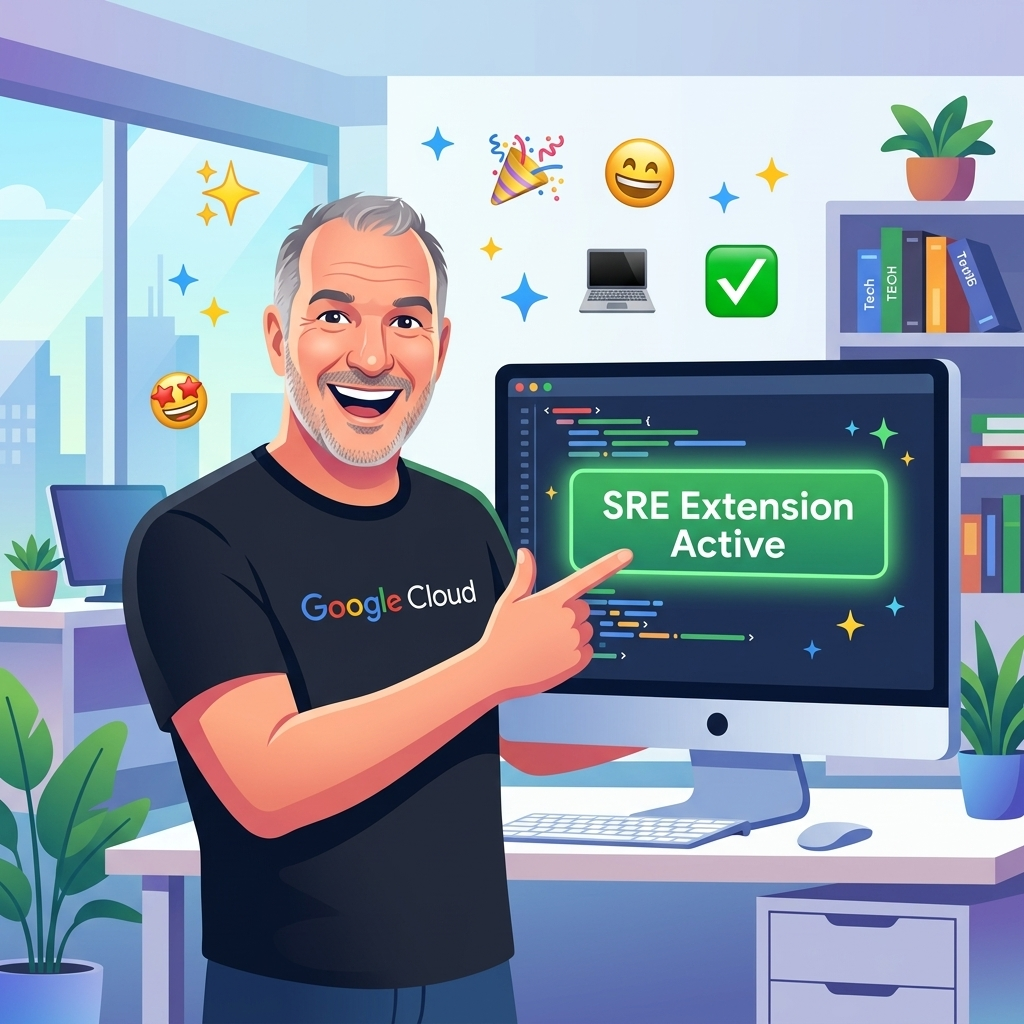
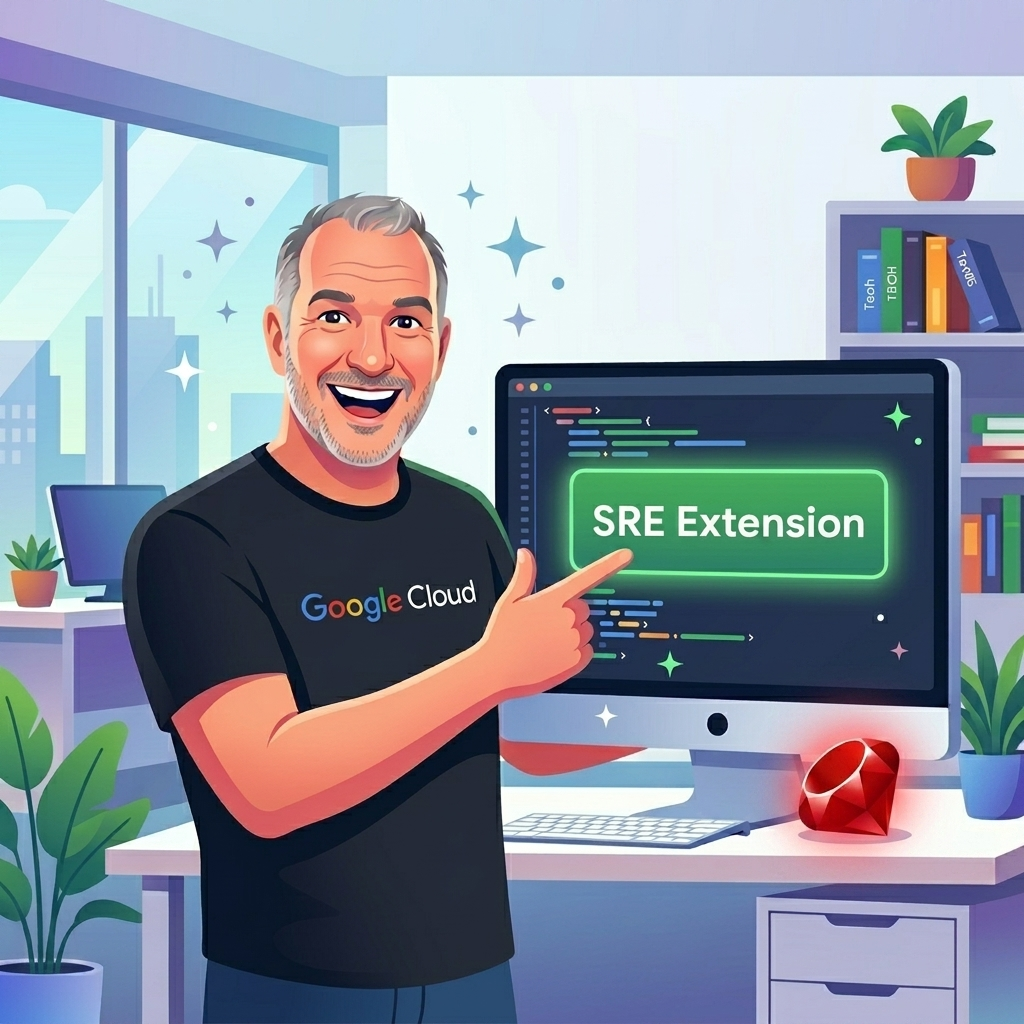
feat(posts): publish SRE Extension article

diff --git a/zzo.ricc.rocks/content/en/posts/technology/2026-06-05-ops-i-did-it-again-the-sre-extension-is-out/index.md b/zzo.ricc.rocks/content/en/posts/technology/2026-06-05-ops-i-did-it-again-the-sre-extension-is-out/index.md
@@ -10,7 +10,7 @@ image: /en/posts/technology/2026-06-05-ops-i-did-it-again-the-sre-extension-is-o
 Harness: antigravity-cli
 Model: Gemini 3.5 Flash (Medium)
 User: ricc
-Host: derek.zrh.corp.google.com
+Host: derek
 Bug: b/520314033
 UTM_ADDON: "?utm_campaign=CDR_0x89ad3e41_awareness_b520314033&utm_medium=external&utm_source=blog"
 CTA: "https://github.com/gemini-cli-extensions/sre"
@@ -35,7 +35,7 @@ When we talk about SRE (Site Reliability Engineering), we are talking about keep
 ## What on Earth is the SRE Extension?
 
 
-That is why we created the **SRE Extension** for the [Gemini CLI](https://github.com/google-gemini/gemini-cli?utm_campaign=CDR_0x89ad3e41_awareness_b520314033&utm_medium=external&utm_source=blog) and the [Antigravity CLI](https://antigravity.google/?utm_campaign=CDR_0x89ad3e41_awareness_b520314033&utm_medium=external&utm_source=blog) (`gemini` and `agy`).
+That is why we created the **SRE Extension** for the [Gemini CLI](https://github.com/google-gemini/gemini-cli) and the [Antigravity CLI](https://antigravity.google/?utm_campaign=CDR_0x89ad3e41_awareness_b520314033&utm_medium=external&utm_source=blog) (`gemini` and `agy`).
 
 It is a bundle of specialized, agentic skills that allow AI assistants to perform operations tasks safely.
 
@@ -43,30 +43,30 @@ And now, we have expanded this support so it works perfectly and seamlessly with
 
 The SRE Extension exposes a suite of specialized skills; let's examine them in a typical chronological order:
 
-- **GCP Setup**. [gcp-setup](https://github.com/gemini-cli-extensions/sre/blob/main/skills/gcp-setup/SKILL.md?utm_campaign=CDR_0x89ad3e41_awareness_b520314033&utm_medium=external&utm_source=blog) and [gcp-mcp-setup](https://github.com/gemini-cli-extensions/sre/blob/main/skills/gcp-mcp-setup/SKILL.md?utm_campaign=CDR_0x89ad3e41_awareness_b520314033&utm_medium=external&utm_source=blog) for secure GCP setup; it also sets up your CLI environment with a bunch of Google MCPs (see the [supported products list](https://docs.cloud.google.com/mcp/supported-products)).
-  - Kudos to my buddy [Romin Irani](https://rominirani.medium.com) for his pioneering work on [Google Managed MCP Servers](https://rominirani.medium.com/getting-started-with-google-mcp-services-a31dfb1b87a8) (check out his [google-mcp-servers repository](https://github.com/rominirani/google-mcp-servers) too!).
-  - We're also currently working on a nice [GCP Discovery](https://github.com/gemini-cli-extensions/sre/blob/main/skills/gcp-architecture-discovery/SKILL.md?utm_campaign=CDR_0x89ad3e41_awareness_b520314033&utm_medium=external&utm_source=blog) skill.
+- **GCP Setup**. [gcp-setup](https://github.com/gemini-cli-extensions/sre/blob/main/skills/gcp-setup/SKILL.md) and [gcp-mcp-setup](https://github.com/gemini-cli-extensions/sre/blob/main/skills/gcp-mcp-setup/SKILL.md) for secure GCP setup; it also sets up your CLI environment with a bunch of Google MCPs (see the [supported products list](https://docs.cloud.google.com/mcp/supported-products?utm_campaign=CDR_0x89ad3e41_awareness_b520314033&utm_medium=external&utm_source=blog)).
+  - Kudos to my buddy [Romin Irani](https://rominirani.medium.com) ([LinkedIn](https://www.linkedin.com/in/rominirani)) for his pioneering work on [Google Managed MCP Servers](https://rominirani.medium.com/getting-started-with-google-mcp-services-a31dfb1b87a8) (check out his [google-mcp-servers repository](https://github.com/rominirani/google-mcp-servers) too!).
+  - We're also currently working on a nice [GCP Discovery](https://github.com/gemini-cli-extensions/sre/blob/main/skills/gcp-architecture-discovery/SKILL.md) skill.
   - If you don't have GCP, no worries, the other skills will be independent! We also accept contributions for other Clouds!
 
 ![Dozens of supported products](image.png)
 
-- **Investigation**. [investigation-entrypoint](https://github.com/gemini-cli-extensions/sre/blob/main/skills/investigation-entrypoint/SKILL.md?utm_campaign=CDR_0x89ad3e41_awareness_b520314033&utm_medium=external&utm_source=blog). This is where your SRE CLI journey starts, in a safe way. This skill is aware of the others and knows what to call:
-  - [cloud-logging](https://github.com/gemini-cli-extensions/sre/blob/main/skills/cloud-logging/SKILL.md?utm_campaign=CDR_0x89ad3e41_awareness_b520314033&utm_medium=external&utm_source=blog), [cloud-monitoring](https://github.com/gemini-cli-extensions/sre/blob/main/skills/cloud-monitoring/SKILL.md?utm_campaign=CDR_0x89ad3e41_awareness_b520314033&utm_medium=external&utm_source=blog), and [gcp-slo-management](https://github.com/gemini-cli-extensions/sre/blob/main/skills/gcp-slo-management/SKILL.md?utm_campaign=CDR_0x89ad3e41_awareness_b520314033&utm_medium=external&utm_source=blog) for getting all those nice *o11y* signals you care about, including Service Level Objectives.
-  - [GCP Playbooks](https://github.com/gemini-cli-extensions/sre/blob/main/skills/gcp-playbooks/SKILL.md?utm_campaign=CDR_0x89ad3e41_awareness_b520314033&utm_medium=external&utm_source=blog) tries to be the place to record our (and your) playbooks. Currently supports Cloud Build, resource manager, GKE and Cloud Run.
-  - [monitoring-graphs](https://github.com/gemini-cli-extensions/sre/blob/main/skills/monitoring-graphs/SKILL.md?utm_campaign=CDR_0x89ad3e41_awareness_b520314033&utm_medium=external&utm_source=blog) to start and orchestrate outage triage, generate incident charts, and keep SRE investigations safe.
-  - [Generic Mitigation](https://github.com/gemini-cli-extensions/sre/tree/main/skills/generic-mitigations?utm_campaign=CDR_0x89ad3e41_awareness_b520314033&utm_medium=external&utm_source=blog) (inspired by Jennifer Mace's Google SRE Classroom article on [Generic Mitigations](https://sre.google/classroom/generic-mitigations/)) allows the system to classify the outage and find the best remediation.
+- **Investigation**. [investigation-entrypoint](https://github.com/gemini-cli-extensions/sre/blob/main/skills/investigation-entrypoint/SKILL.md). This is where your SRE CLI journey starts, in a safe way. This skill is aware of the others and knows what to call:
+  - [cloud-logging](https://github.com/gemini-cli-extensions/sre/blob/main/skills/cloud-logging/SKILL.md), [cloud-monitoring](https://github.com/gemini-cli-extensions/sre/blob/main/skills/cloud-monitoring/SKILL.md), and [gcp-slo-management](https://github.com/gemini-cli-extensions/sre/blob/main/skills/gcp-slo-management/SKILL.md) for getting all those nice *o11y* signals you care about, including Service Level Objectives.
+  - [GCP Playbooks](https://github.com/gemini-cli-extensions/sre/blob/main/skills/gcp-playbooks/SKILL.md) tries to be the place to record our (and your) playbooks. Currently supports Cloud Build, resource manager, GKE and Cloud Run.
+  - [monitoring-graphs](https://github.com/gemini-cli-extensions/sre/blob/main/skills/monitoring-graphs/SKILL.md) to start and orchestrate outage triage, generate incident charts, and keep SRE investigations safe.
+  - [Generic Mitigation](https://github.com/gemini-cli-extensions/sre/tree/main/skills/generic-mitigations) (inspired by Jennifer Mace's Google SRE Classroom article on [Generic Mitigations](https://sre.google/classroom/generic-mitigations/)) allows the system to classify the outage and find the best remediation.
 
-- **Post Mortem**. [postmortem-generator](https://github.com/gemini-cli-extensions/sre/blob/main/skills/postmortem-generator/SKILL.md?utm_campaign=CDR_0x89ad3e41_awareness_b520314033&utm_medium=external&utm_source=blog) to Create a Post Mortem.
-  - There's also a [PoMo aggregator](https://github.com/gemini-cli-extensions/sre/tree/main/skills/postmortem-aggregator?utm_campaign=CDR_0x89ad3e41_awareness_b520314033&utm_medium=external&utm_source=blog) skill to do some simple BI / data crunching from an aggregate of Post Mortems.
+- **Post Mortem**. [postmortem-generator](https://github.com/gemini-cli-extensions/sre/blob/main/skills/postmortem-generator/SKILL.md) to Create a Post Mortem.
+  - There's also a [PoMo aggregator](https://github.com/gemini-cli-extensions/sre/tree/main/skills/postmortem-aggregator) skill to do some simple BI / data crunching from an aggregate of Post Mortems.
 
-You can inspect the open-source codebase on the [Main SRE Extensions GitHub Repository](https://github.com/gemini-cli-extensions/sre?utm_campaign=CDR_0x89ad3e41_awareness_b520314033&utm_medium=external&utm_source=blog).
+You can inspect the open-source codebase on the [Main SRE Extensions GitHub Repository](https://github.com/gemini-cli-extensions/sre).
 
 ## Riccardo's favorites
 
 Two hidden gemstones:
 
-* [cloud-monitoring](https://github.com/gemini-cli-extensions/sre/blob/main/skills/cloud-monitoring/SKILL.md?utm_campaign=CDR_0x89ad3e41_awareness_b520314033&utm_medium=external&utm_source=blog). In order to safeguard token expenditure, I'm particularly proud for scripting a Python CSV extractor which takes a generic multi-var timeseries and then shows the user a simple, cost-effective Sparkline, like `|█▇▆▇ ▂▃   ▂ ▂|`. Costs 10 tokens vs thousands (if not millions) for a single CSV!
-* [monitoring-graphs](https://github.com/gemini-cli-extensions/sre/blob/main/skills/monitoring-graphs/SKILL.md?utm_campaign=CDR_0x89ad3e41_awareness_b520314033&utm_medium=external&utm_source=blog) actually vibe-codes Python scripts and creates amazing PoMo graphs which would probably make Ben Treynor cry of joy!
+* [cloud-monitoring](https://github.com/gemini-cli-extensions/sre/blob/main/skills/cloud-monitoring/SKILL.md). In order to safeguard token expenditure, I'm particularly proud for scripting a Python CSV extractor which takes a generic multi-var timeseries and then shows the user a simple, cost-effective Sparkline, like `|█▇▆▇ ▂▃   ▂ ▂|`. Costs 10 tokens vs thousands (if not millions) for a single CSV!
+* [monitoring-graphs](https://github.com/gemini-cli-extensions/sre/blob/main/skills/monitoring-graphs/SKILL.md) actually vibe-codes Python scripts and creates amazing PoMo graphs which would probably make Ben Treynor cry of joy!
 
 See 2 examples here (more examples in [this repo](https://github.com/palladius/about-sre-extension/)):
 
@@ -78,17 +78,17 @@ See 2 examples here (more examples in [this repo](https://github.com/palladius/a
 ## What Can It Do for You? (The Low-Hanging Fruit)
 You don't need to build complex pipelines to get value out of this. Here are some of the immediate, "wow" low-hanging fruits that the SRE Extension can do for you right out of the box:
 
-1. **GCP Config** (powered by [gcp-playbooks](https://github.com/gemini-cli-extensions/sre/blob/main/skills/gcp-playbooks/SKILL.md?utm_campaign=CDR_0x89ad3e41_awareness_b520314033&utm_medium=external&utm_source=blog)): The agent can inspect your GKE clusters and GCP projects, immediately flagging mismatched configurations, outdated images, or unattached disks. Oftentimes MCP makes the analysis more token-friendly than with just `gcloud`/`kubectl`.
-2. **Smart Log/Metric Pulling** (powered by [cloud-logging](https://github.com/gemini-cli-extensions/sre/blob/main/skills/cloud-logging/SKILL.md?utm_campaign=CDR_0x89ad3e41_awareness_b520314033&utm_medium=external&utm_source=blog) and [anomaly-detection](https://github.com/gemini-cli-extensions/sre/blob/main/skills/anomaly-detection/SKILL.md?utm_campaign=CDR_0x89ad3e41_awareness_b520314033&utm_medium=external&utm_source=blog)): The investigator calls subagents to retrieve logs and metrics efficiently without bloating the context window.
-3. **Automated Post-Mortems (PoMos)** (powered by [investigation-entrypoint](https://github.com/gemini-cli-extensions/sre/blob/main/skills/investigation-entrypoint/SKILL.md?utm_campaign=CDR_0x89ad3e41_awareness_b520314033&utm_medium=external&utm_source=blog) and [monitoring-graphs](https://github.com/gemini-cli-extensions/sre/blob/main/skills/monitoring-graphs/SKILL.md?utm_campaign=CDR_0x89ad3e41_awareness_b520314033&utm_medium=external&utm_source=blog)): As the agent investigates, it records system state and diagnostic outputs. At the end of the incident, it automatically drafts a structured markdown PostMortem document and generates annotated telemetry graphs.
+1. **GCP Config** (powered by [gcp-playbooks](https://github.com/gemini-cli-extensions/sre/blob/main/skills/gcp-playbooks/SKILL.md)): The agent can inspect your GKE clusters and GCP projects, immediately flagging mismatched configurations, outdated images, or unattached disks. Oftentimes MCP makes the analysis more token-friendly than with just `gcloud`/`kubectl`.
+2. **Smart Log/Metric Pulling** (powered by [cloud-logging](https://github.com/gemini-cli-extensions/sre/blob/main/skills/cloud-logging/SKILL.md) and [anomaly-detection](https://github.com/gemini-cli-extensions/sre/blob/main/skills/anomaly-detection/SKILL.md)): The investigator calls subagents to retrieve logs and metrics efficiently without bloating the context window.
+3. **Automated Post-Mortems (PoMos)** (powered by [investigation-entrypoint](https://github.com/gemini-cli-extensions/sre/blob/main/skills/investigation-entrypoint/SKILL.md) and [monitoring-graphs](https://github.com/gemini-cli-extensions/sre/blob/main/skills/monitoring-graphs/SKILL.md)): As the agent investigates, it records system state and diagnostic outputs. At the end of the incident, it automatically drafts a structured markdown PostMortem document and generates annotated telemetry graphs.
 
-Check out the [About SRE Extension Page & PostMortems](https://github.com/palladius/about-sre-extension?utm_source=ricc-blog&utm_medium=blog&utm_campaign=sre-extension) repository to see real examples of how these reports look!
+Check out the [About SRE Extension Page & PostMortems](https://github.com/palladius/about-sre-extension) repository to see real examples of how these reports look!
 
 ## Lesson learnt (todo move somewhere else)
 
 Things I've learnt playing with Google harnesses and GCP investigations:
 
-* Monitoring and Logs are BIG. Ingesting them in the agent results in "tipsiness". That's why we've instructed the Investigator skill to call those with subagents, and use `grep`, `jq` and the magic [export_timeseries_to_csv.py](https://github.com/gemini-cli-extensions/sre/blob/main/skills/cloud-monitoring/scripts/export_timeseries_to_csv.py?utm_campaign=CDR_0x89ad3e41_awareness_b520314033&utm_medium=external&utm_source=blog) script to evince stats from huge metrics via NumPy.
+* Monitoring and Logs are BIG. Ingesting them in the agent results in "tipsiness". That's why we've instructed the Investigator skill to call those with subagents, and use `grep`, `jq` and the magic [export_timeseries_to_csv.py](https://github.com/gemini-cli-extensions/sre/blob/main/skills/cloud-monitoring/scripts/export_timeseries_to_csv.py) script to evince stats from huge metrics via NumPy.
 
 ## Let's Break Things: The GKE Demo Outage
 
@@ -111,12 +111,12 @@ Sure you can!
 If you are the type of developer or SRE who needs to see it to believe it—or if you want to test your own SRE playbooks and agents in a safe sandbox—we have open-sourced our testing suites:
 
 
-- **SRE Testing Suite**: Madhavi and I got you covered! Find it on the [SRE Testing Suite GitHub Repository](https://github.com/palladius/sre-testing-suite?utm_source=ricc-blog&utm_medium=blog&utm_campaign=sre-extension) and just follow the instructions. You can deploy this testing suite to spin up mock environments, simulate active GKE outages, and observe how your AI agents handle incident response.
+- **SRE Testing Suite**: Madhavi and I got you covered! Find it on the [SRE Testing Suite GitHub Repository](https://github.com/palladius/sre-testing-suite) and just follow the instructions. You can deploy this testing suite to spin up mock environments, simulate active GKE outages, and observe how your AI agents handle incident response.
 
 We're also working on a GKE Outage Investigation Codelab to get an easy step-by-step codelab to experience this at your own time on your computer.
 
 <!-- TODO once published
- [GKE Outage Investigation Codelab](https://codelabs.developers.google.com/codelabs/investigate-gke-cluster-breakage-scenarios-with-postmortem) to learn how to break and debug GKE clusters step-by-step.
+ [GKE Outage Investigation Codelab](https://codelabs.developers.google.com/codelabs/investigate-gke-cluster-breakage-scenarios-with-postmortem?utm_campaign=CDR_0x89ad3e41_awareness_b520314033&utm_medium=external&utm_source=blog) to learn how to break and debug GKE clusters step-by-step.
 -->
 
 ## What Customers Want: Auto-Remediation (And Why It's Incredibly Risky)
@@ -139,7 +139,7 @@ This is why I am thinking of a **three-way vetted, safe auto-remediation archite
 3. **Out-of-Band Confirmation**: For higher-risk remediations, the system halts and asks the user for explicit confirmation. This confirmation can be approved out-of-band—for example, by replying to a GitHub Issue or typing a command in a Telegram bot (very much like we do in OpenClaw!).
 
 If you want to play with the early, simulated prototypes of this approach:
-- **ADK-Based Sandbox**: Meet **[Benjamin](https://github.com/palladius/adk-sre-benjamin)**! Check out the [adk-sre-benjamin GitHub Repository](https://github.com/palladius/adk-sre-benjamin?utm_source=ricc-blog&utm_medium=blog&utm_campaign=sre-extension) for my ADK-based incident simulator.
+- **ADK-Based Sandbox**: Meet **[Benjamin](https://github.com/palladius/adk-sre-benjamin)**! Check out the [adk-sre-benjamin GitHub Repository](https://github.com/palladius/adk-sre-benjamin) for my ADK-based incident simulator.
 
 ![Benjamin 1.0.0 screenshot](image-3.png)
 
@@ -155,7 +155,7 @@ Fun fact: I've vibecoded this idea over Telegram with my agent while cycling aro
 
 Here is a quick recap of the most important resources if you want to explore the SRE Extension further:
 
-* **[Main SRE Extensions Repository](https://github.com/gemini-cli-extensions/sre?utm_campaign=CDR_0x89ad3e41_awareness_b520314033&utm_medium=external&utm_source=blog)**: If you want to dive straight into the code, check out the public agentic skills, or contribute your own.
+* **[Main SRE Extensions Repository](https://github.com/gemini-cli-extensions/sre)**: If you want to dive straight into the code, check out the public agentic skills, or contribute your own.
 * **[SRE Testing Suite](https://github.com/palladius/sre-testing-suite)**: If you want to deploy a mock sandbox environment to break, triage, and test GKE outage scenarios on your own.
 * **[Benjamin Auto-Remediation Sandbox](https://github.com/palladius/adk-sre-benjamin)**: If you want to examine our experimental multi-agent simulator for safe, vetted write operations.
 * **[About SRE Extension Page & PostMortems](https://github.com/palladius/about-sre-extension)**: If you want to see real examples of structured markdown PostMortems and telemetry charts generated by the agent.